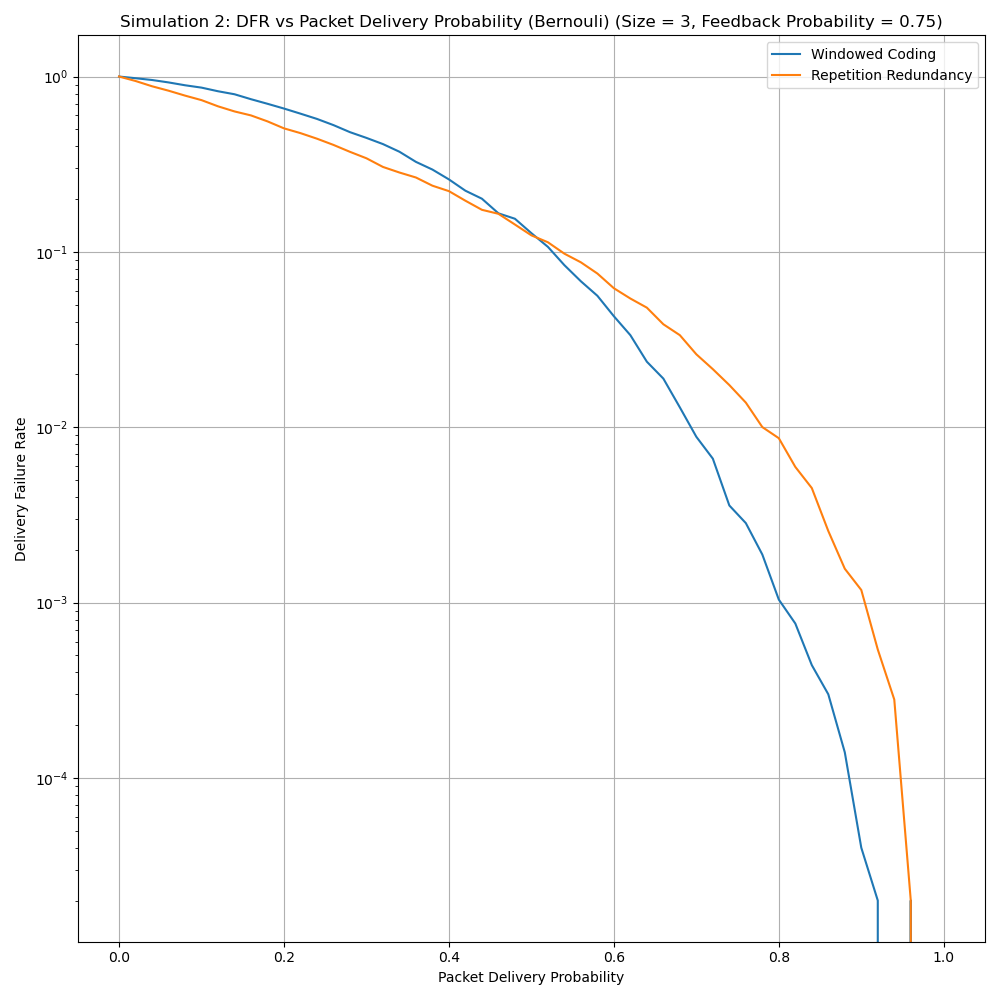
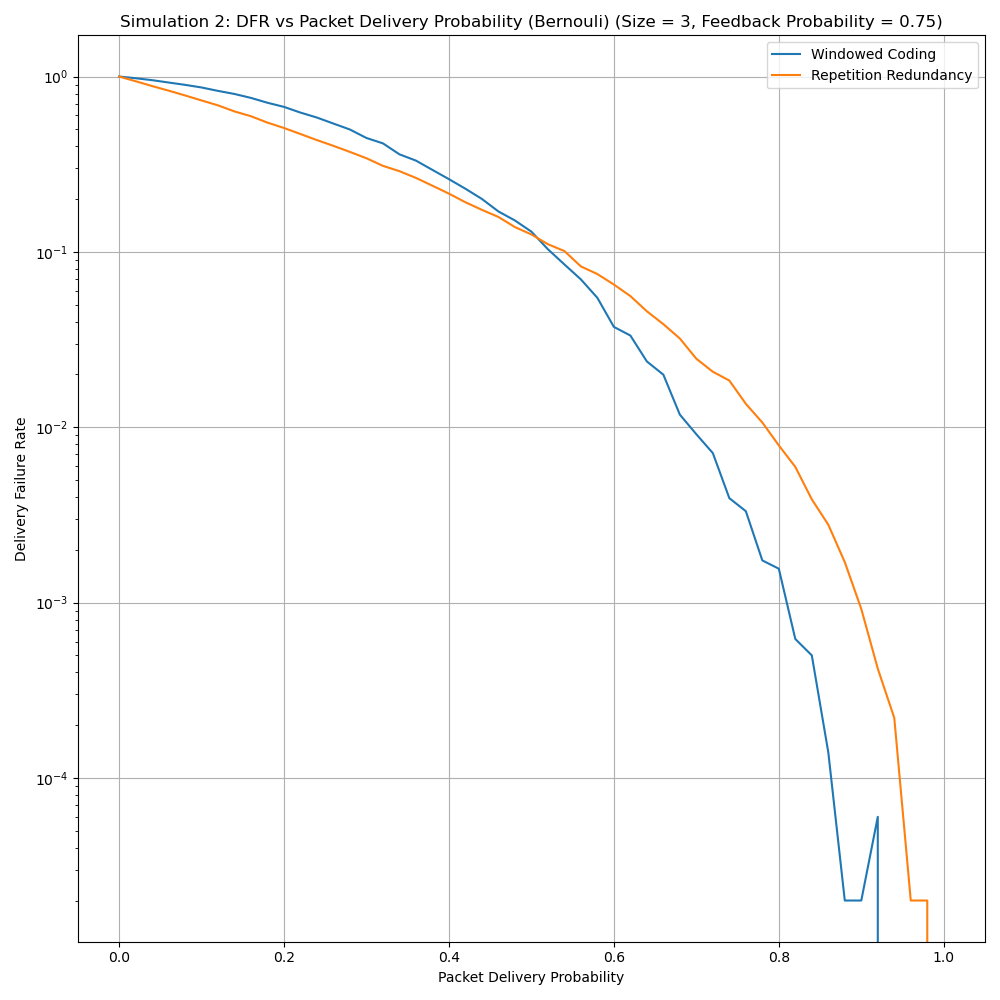
few more minro bug fixes

diff --git a/system.py b/system.py
@@ -18,7 +18,7 @@ def system(
     channel_erasure_model = 'Bernouli',
     Pbg = 0.6,
     Pgb = 0.4,
-    prob_feedback = 0.0,
+    prob_feedback = 1,
     scheme = 'repetition',
     degree_not_feedback = 2
 ):
@@ -61,19 +61,19 @@ def system(
         if received:
             gateway.receive_packet(p_i_h, p_i, size)
         
-            # The feedback is sent for each received packet
-            if i % feedback_interval==0:
+        # The feedback is sent for each received packet
+        if i % feedback_interval==0:
+            
+            feedback_received = bernouli_erasure(prob_feedback)
+            if feedback_received:
                 feedback = gateway.send_feedback(i, delay_tolerance)
-
-                received = bernouli_erasure(prob_feedback)
-                if received:
-                    transmitter.store_feedback(i, feedback)
+                transmitter.store_feedback(i, feedback)
         
 
     # Analysis
-    reception_rate = sum(gateway.received_messages_list) /  number
-    unreceived = number - sum(gateway.received_messages_list)
-    dfr = unreceived/number
+    reception_rate = sum(gateway.received_messages_list[:number - delay_tolerance]) /  (number - delay_tolerance)
+    unreceived = (number - delay_tolerance) - sum(gateway.received_messages_list[:number - delay_tolerance])
+    dfr = 1 - reception_rate
 
     print("********")
 
@@ -98,16 +98,16 @@ def system(
 if __name__=="__main__":
     parser = argparse.ArgumentParser()
     parser.add_argument('-l', '--length', help='Length of one message in binary', type=int, default=8)
-    parser.add_argument('-n', '--number', help='Number of messages to transmit', type=int, default=10000)
+    parser.add_argument('-n', '--number', help='Number of messages to transmit', type=int, default=50000)
     parser.add_argument('-c', '--channel', help='The channel erasure model', choices=['Bernouli', 'Gilbert-Elliot'], type=str, default='Bernouli')
-    parser.add_argument('-s', '--size', help='Size of the packet', type=int, default=4)
+    parser.add_argument('-s', '--size', help='Size of the packet', type=int, default=3)
     parser.add_argument('-d', '--delay_tolerance', help='Delay Tolerance', type=int, default=16)
-    parser.add_argument('-pbg', '--pbg', help='Channel Erasure Probability for Bernouli or Probability of good to bad transition in Gilbert Elliot', type=float, default=0.5)
+    parser.add_argument('-pbg', '--pbg', help='Channel Packet Reception Probability for Bernouli or Probability of good to bad transition in Gilbert Elliot', type=float, default=0.4)
     parser.add_argument('-pgb', '--pgb', help='Probability of bad to good transition in Gilbert Elliot', type=float, default=0.4)
-    parser.add_argument('-f', '--feedback', help='Feedback probability', type=float, default=0.4)
+    parser.add_argument('-f', '--feedback', help='Feedback probability', type=float, default=1.0)
     parser.add_argument('-i', '--feedback_interval', help='The interval of sending feedback', type=int, default=1)
     parser.add_argument('--dnf', '--degree_nf', help='The coding degree when feedback is not present', type=int, default=2)
-    parser.add_argument('--scheme', help='The coding scheme to use', choices=['ICC', 'repetition'], type=str, default='ICC')
+    parser.add_argument('--scheme', help='The coding scheme to use', choices=['ICC', 'repetition'], type=str, default='repetition')
     args = parser.parse_args()
 
     system(

diff --git a/sender.py b/sender.py
@@ -3,7 +3,7 @@ BTP Project - App Coding
 """
 
 from math import comb
-import random
+import numpy as np
 from utils import int2list, list2int
 
 class Sender():
@@ -74,23 +74,36 @@ class Sender():
                         packet_header.append(coding_list)
         
         elif scheme=='repetition':
+            # Fixing the feedback
+            if self.feedback is not None and self.feedback_packet is not None:
+                num_missing = int(self.feedback[9:], 2)
+                oldest_undelivered = self.feedback_packet - int(self.feedback[1:9], 2) if num_missing != 0 else self.feedback_packet + 1
+            else:
+                num_missing = 0
+                oldest_undelivered = 0
+
+            # Adding the current element in the pakcet
             packet = [self.messages_list[packet_number]]
             packet_header = [packet_number]
             size -= 1
-            if self.feedback_packet is packet_number - 1:
-                oldest_undelivered = self.feedback_packet - int(self.feedback[1:9], 2)
-                num_missing = int(self.feedback[9:], 2)
-                if num_missing == 0:
-                    oldest_undelivered = self.feedback_packet + 1
-                
+
+            if self.feedback_packet is packet_number - 1:                
                 if oldest_undelivered == packet_number:
                     pass
                 else:
                     packet.append(self.messages_list[oldest_undelivered])
                     packet_header.append(oldest_undelivered)
                     size -= 1
-            for i in range(1, size+1):
-                if(packet_number-i)>=0:
+
+                    if num_missing > 1 and size > 0:
+                        window_size = packet_number - oldest_undelivered - 1
+                        for i in range(1, min(window_size, size)+1):
+                            packet.append(self.messages_list[packet_number - i])
+                            self.sent_list[packet_number - i] = True
+                            packet_header.append(packet_number-i)
+            else:
+                window_size = min(self.delay_tolerance, packet_number - oldest_undelivered)
+                for i in range(1, min(window_size, size)+1):
                     packet.append(self.messages_list[packet_number - i])
                     self.sent_list[packet_number - i] = True
                     packet_header.append(packet_number-i)
@@ -115,9 +128,9 @@ class Sender():
         coding_list = []
         for _ in range(coding_degree):
             # Dont repeat
-            idx = random.randint(0,len(interest_list)-1)
+            idx = np.random.randint(0,len(interest_list))
             while(idx in coding_list):
-                idx = random.randint(0,len(interest_list)-1)
+                idx = np.random.randint(0,len(interest_list))
             
             coded_message = coded_message ^ list2int(interest_list[idx])
             coding_list.append(base_index + idx)

diff --git a/receiver.py b/receiver.py
@@ -52,11 +52,11 @@ class Receiver():
 
     def send_feedback(self, packet_number, delay_tolerance):
         # Interval of interest starting position
-        lower = max(0, packet_number - delay_tolerance)
+        lower = max(0, packet_number - delay_tolerance + 1)
         
         try:
-            index = packet_number - self.received_messages_list.index(False, lower, packet_number)
-            num_unreceived = (packet_number - lower) - sum(self.received_messages_list[lower:packet_number]) 
+            index = packet_number - self.received_messages_list.index(False, lower, packet_number+1)
+            num_unreceived = (packet_number + 1 - lower) - sum(self.received_messages_list[lower:packet_number+1]) 
         except ValueError as _:
             index = 0
             num_unreceived = 0

diff --git a/channel_erasure.py b/channel_erasure.py
@@ -1,11 +1,11 @@
-import random
+import numpy as np
 
 def bernouli_erasure(success_prob):
     """
     Probability that the message will be sucessfully
     """
     
-    x = random.uniform(0,1)
+    x = np.random.uniform(0,1)
     return True if x < success_prob else False
 
 
@@ -18,10 +18,10 @@ def gilbert_elliot_erasure(previous_status, Pbg, Pgb):
 
     # Check if packet_number-1 was lost
     if not previous_status:
-        x = random.uniform(0,1)
+        x = np.random.uniform(0,1)
         return True if x < Pbg else False
     
     else:
-        x = random.uniform(0,1)
+        x = np.random.uniform(0,1)
         return True if x < 1 - Pgb else False
 
